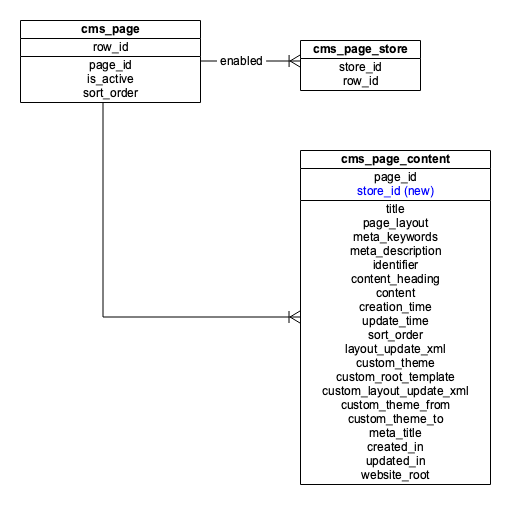
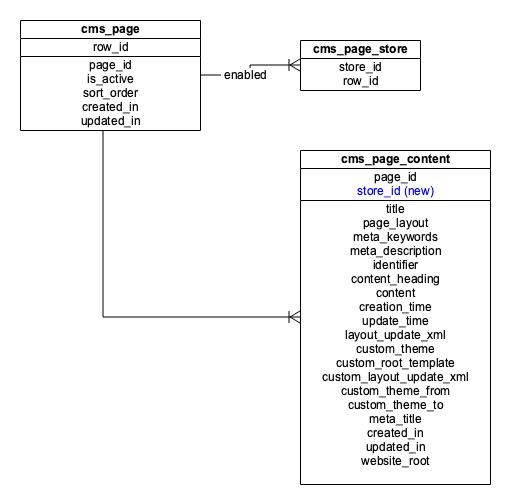
MC-13970: Allow CMS Page to Be Edited and Viewed in Admin Based On StoreView
- HLD

diff --git a/design-documents/add-scope-to-cms-pages.md b/design-documents/add-scope-to-cms-pages.md
@@ -3,6 +3,35 @@
 
 HLD for [MC-13907](https://jira.corp.magento.com/browse/MC-13907): Allow CMS Page to Be Edited and Viewed in Admin Based On StoreView
 
+**Current state**
+
+CMS content such as pages and blocks don't support MagentoScope like products and categories do. Merchants need to duplicate pages and blocks and assign them to different storeviews in order to get content localized.
+
+**Problems:**
+
+1. Websites with many languages (EMEA region mostly) need to manage huge number of pages to get the content localized. They maintain certain naming convention for pages to simplify the process of finding the localized duplicates, but making changes for that pages and launching them is still very time consuming and tidies work that slows down time to market for content significantly
+
+2. Websites with several locales usually have dedicated content manager per each locale. They speak the language of the region they manage. Their role in ACL is limited to the particular scope (responsible for certain region) can't edit CMS pages that are assigned to the scope they have access (MAGETWO-69693) 
+
+3. Product widget added into the page with PageBuilder or as a widget will render all products based on conditions regardless of website selected for Product. That causes products not sold on the web store to be displayed there.
+
+4. When block is added to the page with Pagebuilder, it will render an empty block on Stage if the CMS Block is saved to a unique store view (not All Store Views or Default Store View). Sometimes it renders scope specific content on all storeview scope. This causes lots of confusion. 
+
+5. Dynamic Block content types will render All Store Views content
+
+**Objectives**
+
+1. СMS Pages have MagentoScope. 
+2. Admin user with scope specific role is able to edit scope specific content
+3. CMS Page is assigned to AllStoreviews by default. 
+4. Changing the drop-down value will cause the page to load the content for that specific storeview
+5. CMS Page content attributes have storeview scope except: 
+   - enable page - global
+   - store view - global 
+6. Changing the drop-down value to any value other than All Store Views will by default have the "Use Default Value" checkbox checked for all storeview specific attributes
+7. ContentHeading is removed from the CMS Page Form(only new pages affected)
+8. PageTitle content attribute value is copied to MetaTitle by default
+
 ### Terms
 
 ### Overview
@@ -87,8 +116,6 @@ Page Builder components (and potentially other extensions) will need to be aware
 
 #### Extension Points and Scenarios
 Page Builder components (and potentially other extensions) will need to be aware of the selected store view to render store-sensitive data (such as Product List). The store switcher component adds the chosen store_id to the application context and will be available as Page Builder currently expects (via StoreManager) without additional changes.
-
-### Prototype or Proof of Concept
 
 ### Data size and Performance Requirements
 No new degradations
